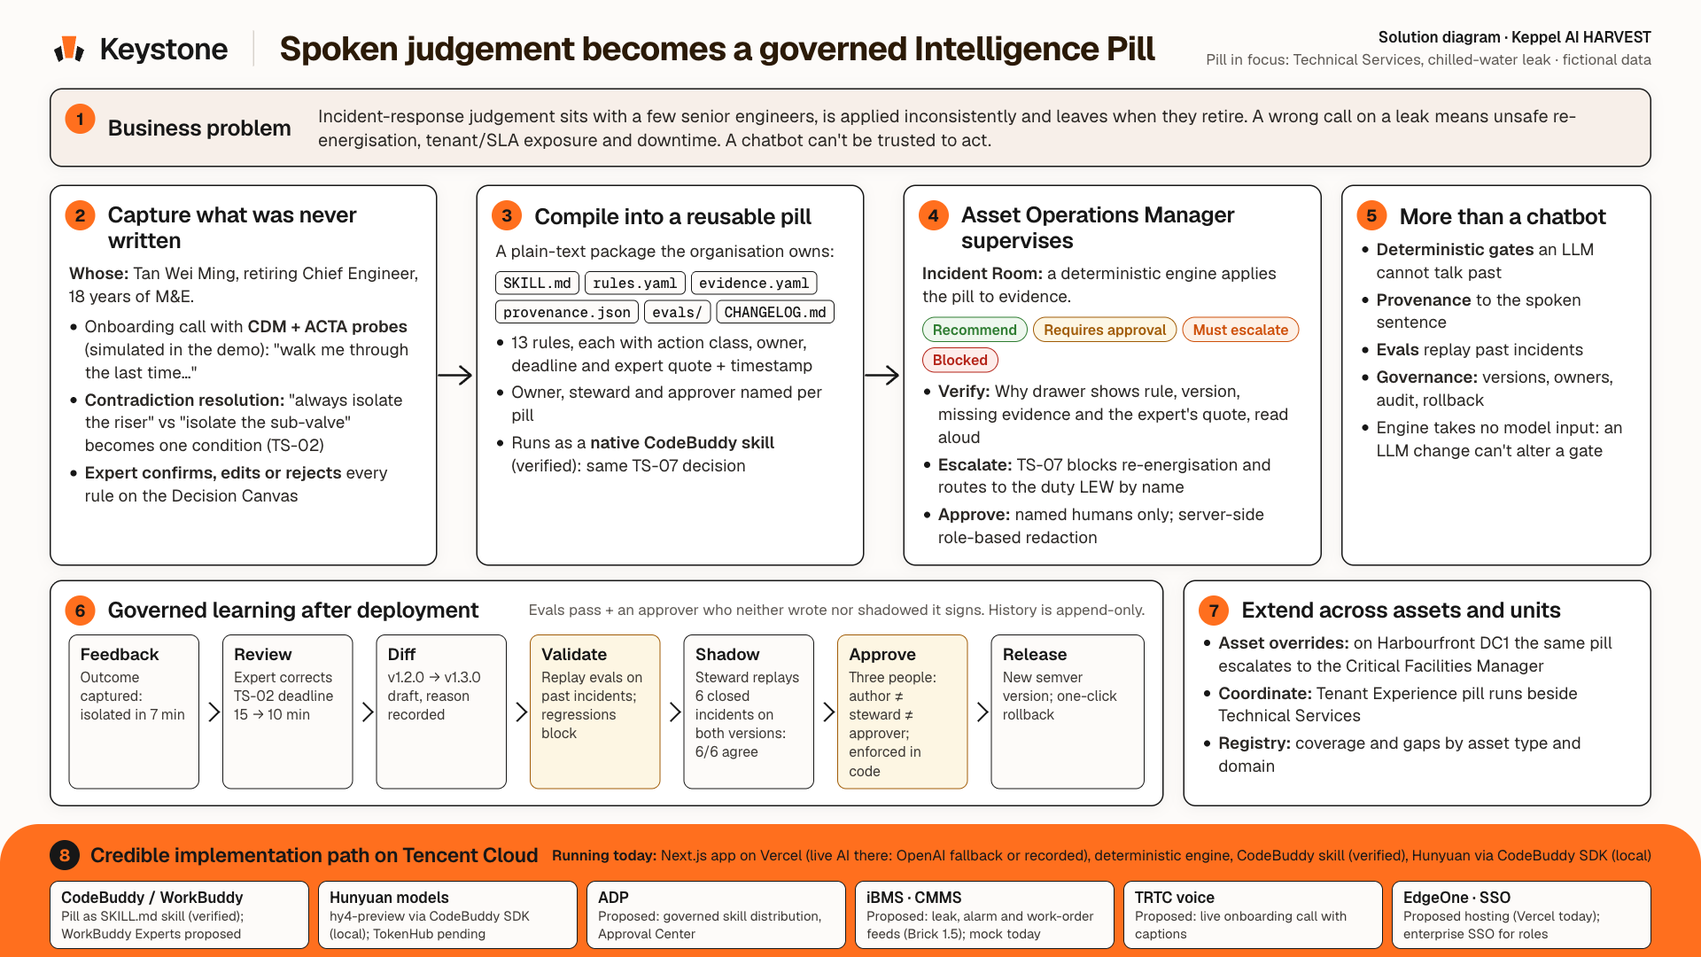
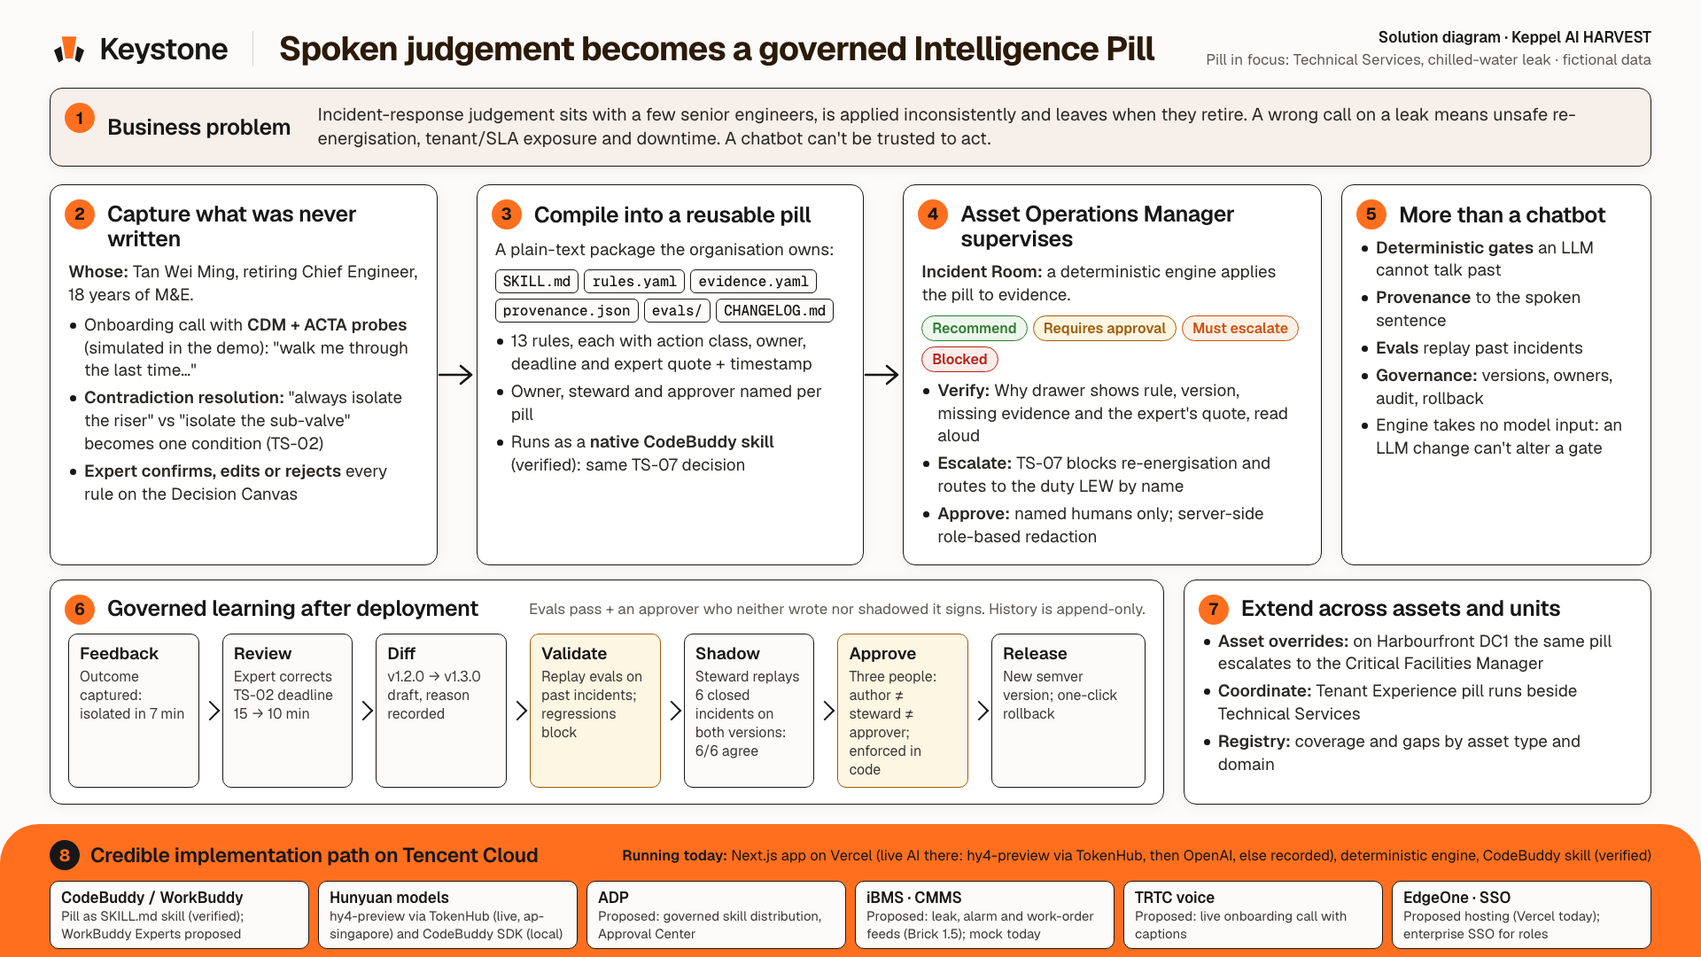
docs(submission): correct every stale number against the current tree
The submission documents were quoting a 12 Oct tree. A judge who runs the
commands we cite would have seen different numbers than the ones we print,
which costs more than the claims are worth.

Measured today and corrected:

- Test counts. README, the video script (4 places) and form-answers all said
  "712 tests in 46 files" and narrated "over 700 tests". The suite is now 876
  tests in 76 files. The narration becomes "over 850 tests".
- One test only runs after a build: the client-bundle secret scan greps
  .next/static, so a clean tree reports 875 passed and 1 skipped. Both states
  were observed, and the docs now say which command produces which, so the
  terminal on camera matches the narration.
- One test is genuinely flaky: lib/engine/__tests__/stress.test.ts
  "evaluate() is linear in rules" compares wall-clock timings against
  half.ms * 3.5 and fails on a loaded machine in roughly one run in ten
  (observed 42.56 ms against a 40.67 ms bound). Not our file to fix, so the
  video script and form-answers warn the recorder instead of pretending the
  suite is deterministic.
- solution-diagram said "TokenHub pending". TokenHub is live and answers first
  on the deployment, as README, SUBMISSION and lib/connectors already state.
  Source corrected and the PNG regenerated from it at the same 1920x1080, with
  the "Running today" note shortened so section 8 still fits one line; the
  Hunyuan-via-CodeBuddy-SDK (local) fact it dropped is stated in full by the
[…]

diff --git a/docs/submission/solution-diagram.html b/docs/submission/solution-diagram.html
@@ -193,11 +193,11 @@
     <div class="impl-head">
       <span class="badge">8</span>
       <h2>Credible implementation path on Tencent Cloud</h2>
-      <span class="note"><span style="font-weight:600">Running today:</span> Next.js app on Vercel (live AI there: OpenAI fallback or recorded), deterministic engine, CodeBuddy skill (verified), Hunyuan via CodeBuddy SDK (local)</span>
+      <span class="note"><span style="font-weight:600">Running today:</span> Next.js app on Vercel (live AI there: hy4-preview via TokenHub, then OpenAI, else recorded), deterministic engine, CodeBuddy skill (verified)</span>
     </div>
     <div class="layers">
       <div class="layer"><b>CodeBuddy / WorkBuddy</b><span>Pill as SKILL.md skill (verified); WorkBuddy Experts proposed</span></div>
-      <div class="layer"><b>Hunyuan models</b><span>hy4-preview via CodeBuddy SDK (local); TokenHub pending</span></div>
+      <div class="layer"><b>Hunyuan models</b><span>hy4-preview via TokenHub (live, ap-singapore) and CodeBuddy SDK (local)</span></div>
       <div class="layer"><b>ADP</b><span>Proposed: governed skill distribution, Approval Center</span></div>
       <div class="layer"><b>iBMS · CMMS</b><span>Proposed: leak, alarm and work-order feeds (Brick 1.5); mock today</span></div>
       <div class="layer"><b>TRTC voice</b><span>Proposed: live onboarding call with captions</span></div>

diff --git a/docs/submission/video-script.md b/docs/submission/video-script.md
@@ -11,7 +11,7 @@
 - Use a fresh browser profile, or clear the site's localStorage, so the governance store starts at v1.2.0 with nothing approved.
 - Browser at 1440 x 900, zoom 110 %, cursor highlight on, notifications off.
 - Have CodeBuddy Code open in a terminal in the repo, with `.codebuddy/skills/chilled-water-leak/` present, for the reflection section. The screenshots `docs/proof/04a-codebuddy-skill-invoked.png` and `04b-codebuddy-skill-ts07-answer.png` are the fallback if a live run is not possible.
-- Have `npx vitest run` ready in a second terminal. Last verified run (12 Oct 2026): **46 test files, 712 tests, all passing.** Re-run before recording; the narration says "over 700 tests".
+- Have `npx vitest run` ready in a second terminal. Last verified run (13 Oct 2026): **76 test files, 876 tests, all passing.** Re-run before recording; the narration says "over 850 tests". Run `npx next build` first: one test scans the build output for a leaked key, so without a build the terminal reads "875 passed | 1 skipped" instead of "876 passed". One timing-sensitive test (`lib/engine/__tests__/stress.test.ts`, "evaluate() is linear in rules") compares wall-clock timings and fails on a loaded machine in roughly one run in ten; close other apps, and re-run if it trips while recording.
 - Live AI on the Vercel deployment is Hunyuan hy4-preview via TokenHub, served from a dedicated Singapore endpoint, or recorded output, and the badge says which (OpenAI gpt-5.4-mini is a fallback).
 - Frontline capture segment: use the labelled **demo note** (or type a note) on `/c/AHU-23-01`. Do not present hold-to-talk as working on Singapore-accented speech; real microphone speech is untested. Do **not** propose the captured draft in the recording profile: proposing it creates v1.3.0, which would change the version numbers in the Learning segment. The peer-gate shots use `docs/capture/screens/c7-approvals-peer-gate-blocks-shadow.png` and `c8-hafiz-peer-confirmed.png`. Sign in once more if you have an older session (tokens now carry a `jti`). This script does not show a live AI call. If you record one locally with CodeBuddy credentials, the badge will read Hunyuan hy4-preview via CodeBuddy; narrate whatever the badge shows.
 
@@ -112,10 +112,10 @@
 
 ### 5:45 to 6:10 · Responsible AI, briefly
 
-**On screen:** Split screen. On the left, the terminal runs `npx vitest run` and ends on the "Test Files … passed · Tests … passed" summary (last run: 46 files, 712 tests). On the right, use **Switch user** to choose **Rajesh Kumar · Technician** and show that the incident's tenant name is masked.
+**On screen:** Split screen. On the left, the terminal runs `npx vitest run` and ends on the "Test Files … passed · Tests … passed" summary (last run: 76 files, 876 passed). On the right, use **Switch user** to choose **Rajesh Kumar · Technician** and show that the incident's tenant name is masked.
 
 **Narration:**
-> Here's the responsible-AI part in one breath. Gates are deterministic and evidence counts only when it's confirmed true. Redaction happens on the server, so a technician's browser never receives the tenant's name. Every decision is audited. And it's all tested: over 700 tests, including adversarial and property-based tests on the gates and the governance rules. The language model handles language. It never decides on a safety action.
+> Here's the responsible-AI part in one breath. Gates are deterministic and evidence counts only when it's confirmed true. Redaction happens on the server, so a technician's browser never receives the tenant's name. Every decision is audited. And it's all tested: over 850 tests, including adversarial and property-based tests on the gates and the governance rules. The language model handles language. It never decides on a safety action.
 
 ### 6:10 to 7:10 · Reflection: how we built it with CodeBuddy
 
@@ -160,7 +160,7 @@
 | 16 | 5:05 | Learning step 4: eval replay | same | v1.2.0 passes 5/6; the correction fixes the failing case. |
 | 17 | 5:20 | Learning steps 5 and 6: hand-off to Priya, shadow 6/6, Priya refused approval, switch to Goh Boon Kheng, approve | same | Three different people: author, steward, approver. Hold on the "Separation of duties" refusal. |
 | 18 | 5:35 | Learning step 7: Goh rolls back with a reason (v1.4.0), history and audit kept | same | |
-| 19 | 5:45 | Split: vitest (700+ passing), and the Technician view with masking | terminal + app | |
+| 19 | 5:45 | Split: vitest (876 passing), and the Technician view with masking | terminal + app | |
 | 20 | 6:10 | CodeBuddy proof screenshots 01a, 01b, 01c, 02c, 03a | `docs/proof/` | Ken Burns pan, about 4 s each. |
 | 21 | 6:35 | CodeBuddy skill run: same TS-07 decision | live CodeBuddy, or `docs/proof/04a`, `04b` | |
 | 22 | 7:10 | Landing hero, then the cover card with the URL | `/`, `docs/submission/cover.png` | End card for 3 s. |
@@ -186,7 +186,7 @@ Use this if the full video can't be recorded, or as a teaser. It reuses shots 1,
 
 | Claim | Source in the repo |
 |---|---|
-| Over 700 tests (last run: 46 files, 712 tests, all passing) | `npx vitest run`, run 12 Oct 2026 |
+| Over 850 tests (last run: 76 files, 876 passed) | `npx vitest run` after `npx next build`, run 13 Oct 2026 |
 | A gate block asks the technician "why, in twenty seconds" | `components/incident/captureTasks.ts`, `components/incident/IncidentRoom.tsx` ("Tell us why — 20 seconds") |
 | QR page for AHU-23-01; consent notice before recording; demo note labelled | `app/c/[assetId]/page.tsx`, `components/capture/ConsentNotice.tsx`, `data/fixtures/capture/qr-ahu-23-01.json` |
 | Every number, tag and role is checked (read-back) | `lib/capture/contract.ts` (`READ_BACK_KINDS`, `draftProposalReadiness`) |

diff --git a/docs/SUBMISSION.md b/docs/SUBMISSION.md
@@ -61,10 +61,11 @@ Two primary users, per the challenge's own roles. Everyone else is a name in the
    promotes a corrected pill version into Shadow and replays it, and escalates. She
    cannot approve a version she shadowed; the Head of Technical Services does.
 
-Supporting roles (implemented in `data/roles.json`, 14 in total): Head of Technical
+Supporting roles (implemented in `data/roles.json`, 15 in total): Head of Technical
 Services (approver of record), Duty Licensed Electrical Worker (electrical-safety
 sign-off), Fire Safety Manager, Tenant Experience Manager, Duty Facilities Manager,
-DC Critical Facilities Manager, Technician, Executive, and others.
+DC Critical Facilities Manager, Technician, Senior Technician, Technical Services
+Lead, Property Manager, Account Manager, Security / FCC Operator, and Executive.
 
 ### Value proposition
 
@@ -183,10 +184,13 @@ Next.js 15 (App Router, TS) · React 19 · Tailwind v4
 └─ data/                  mock assets, incidents, timelines, transcripts, roles, fixtures
 ```
 
-Eleven pages ship: `/` (landing), `/sign-in`, `/pulse` (Portfolio Pulse), `/capture`,
-`/canvas/[pillId]`, `/registry`, `/incident/[id]`, `/approvals`, `/learning/[pillId]`,
-`/c/[assetId]` (QR tap-to-teach) and `/c/[assetId]/qr` (printable label), plus API
-routes for auth, LLM, Jev and capture transcription. Full Mermaid diagrams in `docs/ARCHITECTURE.md`.
+Sixteen pages ship (`npx next build`, 13 Oct 2026): `/` (landing), `/sign-in`,
+`/pulse` (Portfolio Pulse), `/capture`, `/canvas/[pillId]`, `/registry`,
+`/registry/[pillId]`, `/incidents`, `/incident/[id]`, `/incident/[id]/record`
+(printable decision record), `/approvals`, `/learning/[pillId]`, `/connectors`,
+`/c` (equipment index), `/c/[assetId]` (QR tap-to-teach) and `/c/[assetId]/qr`
+(printable label), plus seven API routes for auth, LLM, Jev and capture
+transcription. Full Mermaid diagrams in `docs/ARCHITECTURE.md`.
 
 ### 5.3 How prompts drive AI generation
 
@@ -564,7 +568,7 @@ TokenHub in ap-singapore, with OpenAI gpt-5.4-mini as a fallback. Rows marked
 | **Speech recognition (adapter only)** | **Tencent Cloud ASR**, `asr.ap-singapore.tencentcloudapi.com` | The only option found with documented Singapore-region processing. The adapter in `lib/capture/asr.ts` reports "not configured": no credentials, not verified against the live API. Today hold-to-talk uses the browser's Web Speech API (audio processed by the browser vendor). Singapore-accented speech is untested. |
 | **Builder skills (verified)** | **CodeBuddy** — `.codebuddy/skills/<name>/SKILL.md` | The same pill loads as a CodeBuddy skill (`docs/proof/04a`, `04b`); `rules.yaml` and `evals/` are executed only by the Keystone engine. |
 | **Expert host (proposed)** | **WorkBuddy** — Skills & Expert Center, Experts, Expert Teams | A pill would become a Skill; a domain pill + persona an Expert; the Asset Ops orchestrator an Expert Team leader. WorkBuddy documents a security scan before install; `access` could map to its RBAC. |
-| **Enterprise governance (proposed)** | **ADP** (Agent Development Platform) — custom skills as a ZIP with `SKILL.md` at the root, YAML metadata, semantic versioning, sandbox security review, **Approval Center** for enterprise sharing | The governed distribution path for pills across business units. |
+| **Enterprise governance (proposed)** | **ADP** (Agent Development Platform) — custom skills imported as a ZIP. Its documentation (fetched 2026-10-13: [1254/81539](https://www.tencentcloud.com/document/product/1254/81539), [1254/81540](https://www.tencentcloud.com/document/product/1254/81540)) requires `SKILL.md` *"included in the root directory of the ZIP package"*; *"Only .zip format is supported"*; *"Maximum 10 MB"*; metadata *"in YAML format, including at least the Skill name and feature description fields"*; and a Version Number, *"Recommended semantic versioning"*. It also documents sandbox security review and an **Approval Center** for enterprise sharing. | The governed distribution path for pills across business units. `lib/export/__tests__/adp-package.test.ts` enforces every one of those documented constraints against the package Keystone exports for each pill, so exporter or pill drift fails the test suite instead of the import. No pill has been imported into ADP. |
 | **Sandbox (proposed)** | **Agent Runtime / CubeSandbox** | Isolated execution for deterministic rule checks (architecture reference; not built). |
 | **Voice (proposed)** | **TRTC Conversational AI** (STT + LLMConfig OpenAI-compatible + TTS; captions via custom messages) | The live Expert Onboarding Call: real-time captions and "rule extracted" chips. Today the demo uses a scripted transcript read by browser text-to-speech; TRTC is the proposed production path. |
 | **Hosting (proposed)** | **EdgeOne Pages** (Next.js SSR, free HTTPS) with **Lighthouse** (Singapore) for a persistent backend | Today the app runs on Vercel. Lighthouse if a long-lived Node backend (TRTC token service) is needed. |

diff --git a/docs/submission/form-answers.md b/docs/submission/form-answers.md
@@ -10,7 +10,7 @@ The code blocks below contain only claims backed by this repository or by a cite
 - [ ] **[verify]** About 40% of Singapore's Built Environment PMETs are aged 50+ (MND, 2022). If confirmed, you may add: `• About 40% of Singapore's Built Environment PMETs are aged 50+ (MND, 2022).`
 - [ ] **[verify]** No pilot cost has been estimated, so the answers do not claim that one avoided flood "pays for the pilot". Add that only with a cost estimate.
 - [ ] **[verify]** The GitHub repository is private. Grant the judges access, or make it public.
-- [ ] **[verify]** Re-run `npx vitest run` just before submitting. The answers say "700+ automated tests"; the last run (12 Oct 2026) was 46 files, 712 tests, all passing.
+- [ ] **[verify]** Re-run `npx vitest run` just before submitting. The answers say "850+ automated tests"; the last run (13 Oct 2026) was 76 files, 876 tests, all passing. Build first (`npx next build`), or the client-bundle scan is skipped and the run reads 875 passed, 1 skipped. One timing-sensitive engine stress test fails on a loaded machine in roughly one run in ten; re-run on a quiet machine before quoting a number.
 - [ ] **[verify]** Sign in on the live URL and check that the live drafting badge reads `Live · hy4-preview via TokenHub` (or `Recorded output`), as described below.
 - [ ] **[verify]** Walk the frontline capture path on the live URL from a fresh browser profile: Rajesh is blocked by TS-07 at step 10 → note → read-back → draft → Tan Wei Ming proposes TS-14 in v1.3.0 → Priya is refused at Promote to Shadow → Muhammad Hafiz confirms → Priya promotes.
 - [ ] **[do not claim]** Speech recognition on real Singapore-accented speech is untested. The Tencent Cloud ASR adapter reports "not configured", and the OpenAI transcription path has never been run live. Do not claim accuracy, and do not claim that speech is processed in Singapore: the browser's speech service decides where audio goes.
@@ -52,7 +52,7 @@ Users
 • The domain expert and pill owner: Tan Wei Ming, Chief Engineer, 18 years of M&E experience, retiring. He confirms, edits or rejects every extracted rule and corrects the rules later.
 • The Asset Operations Manager and pill steward: Priya Nair. She supervises AI recommendations in the Incident Room, approves actions that need approval, escalates, and promotes new versions into shadow mode. She cannot approve a version she shadowed.
 • Frontline staff: Rajesh Kumar (Technician) records what the gate didn't know; Muhammad Hafiz (Technical Services Lead) confirms it as a peer.
-• Supporting roles (14 personas in data/roles.json): Head of Technical Services (approver of record), duty Licensed Electrical Worker, DC Critical Facilities Manager, Tenant Experience Manager, Technician, Executive and others.
+• Supporting roles (15 personas in data/roles.json): Head of Technical Services (approver of record), duty Licensed Electrical Worker, DC Critical Facilities Manager, Tenant Experience Manager, Technician, Executive and others.
 
 Value proposition
 Keystone compiles expert judgement into an Intelligence Pill: a plain-text, versioned, tested artefact with an owner and an approver. It outlives the expert, can be reused at every asset of the same type, has deterministic gates an LLM cannot talk past, proves itself against replayed past incidents before release, rolls back in one click, and stays the organisation's property rather than a vendor's.
@@ -110,7 +110,7 @@ The decision path is deterministic and takes no model input, so changing the mod
 Responsible AI
 Every rule has an action class. Evidence counts only when it is confirmed and exactly true. A blocked gate outranks escalate and requires-approval. Exceptions can add required evidence but never remove it. No AI proposal executes: each is held for a named human, and blocked outright when its gate's evidence is missing. The author of a version can't put it into Shadow or approve it, and whoever shadowed it can't approve it. Rollback never deletes history. Keystone never actuates building systems: it recommends, drafts and escalates.
 Frontline notes need consent before recording, a speaker-checked read-back, and a peer confirmation from someone who neither said nor proposed the rule.
-These invariants are executable: 700+ automated tests, including adversarial and property-based tests (fast-check) on the engine and the governance layer.
+These invariants are executable: 850+ automated tests, including adversarial and property-based tests (fast-check) on the engine and the governance layer.
 The design is mapped (design alignment, not certification) to the IMDA Model AI Governance Framework (2020 and the 2026 Agentic AI edition), AI Verify, ISO/IEC 42001 and the NIST AI RMF. The mapping is in docs/SUBMISSION.md §9.
 
 Path to production on Tencent Cloud

diff --git a/README.md b/README.md
@@ -200,9 +200,18 @@ The pill folder is a standard `SKILL.md` skill package. **Verified in CodeBuddy 
 - **WorkBuddy** *(designed for, untested)* — would import via **Skills & Expert Center**, where `SKILL.md`
   would become a skill. WorkBuddy documents a security scan before installation; the
   pill's `access` frontmatter could map to WorkBuddy's RBAC.
-- **Tencent Cloud ADP** *(designed for, untested)* — would be packaged as a ZIP with `SKILL.md` at the root.
-  ADP documents YAML metadata, semantic versioning, sandbox security review, and
+- **Tencent Cloud ADP** *(designed for, untested)* — would be packaged as a ZIP with
+  `SKILL.md` at the root. ADP's own documentation (fetched 13 Oct 2026:
+  [1254/81539](https://www.tencentcloud.com/document/product/1254/81539),
+  [1254/81540](https://www.tencentcloud.com/document/product/1254/81540)) requires
+  `SKILL.md` "included in the root directory of the ZIP package"; "Only .zip format
+  is supported"; "Maximum 10 MB"; metadata "in YAML format, including at least the
+  Skill name and feature description fields"; and a Version Number, with
+  "Recommended semantic versioning". It also documents sandbox security review and
   enterprise sharing through the Approval Center.
+  `lib/export/__tests__/adp-package.test.ts` enforces each of those constraints
+  against the package Keystone exports, so a drift in the exporter or a pill fails
+  the test suite rather than the import. No pill has been imported into ADP.
 - **Any SKILL.md-compatible host** — the structure follows the Anthropic agentskills
   convention (the same shape is used by Claude Code, CodeBuddy and Cursor).
 
@@ -327,7 +336,7 @@ Session tokens carry a `jti`, so sessions issued before 12 Oct need one re-sign-
 
 ## Tests
 
-`npm test` runs the regression suite (712 tests in 46 files, 12 Oct 2026) across the deterministic core, LLM boundary, governance layer and frontline capture,
+`npm test` runs the regression suite (876 tests in 76 files, 13 Oct 2026) across the deterministic core, LLM boundary, governance layer and frontline capture,
 including the safety invariants that make the demo defensible:
 
 - **Evidence can never be faked open** — a required item counts only when it is
@@ -353,12 +362,17 @@ including the safety invariants that make the demo defensible:
   until every chip is confirmed.
 
 Coverage spans `lib/engine` (conditions, evaluate, counterfactual, evals, schema,
-real-pill conformance), `lib/governance` (versions, approval, access, audit, store,
-capture store actions), `lib/capture` (contract, read-back, peer gate, ASR chain),
-`lib/data` (schema + cross-file consistency), `lib/pills` (package loading), and
-`lib/llm` (mocked SDK/provider selection, no-spawn fallback, timeout, malformed JSON,
-injected controls, bounded HTTP inputs, and TE-02/TE-03 rejection). Tests make no
-inference requests.
+real-pill conformance, the no-model-input boundary), `lib/governance` (versions,
+approval, access, audit, store, capture store actions), `lib/capture` (contract,
+read-back, peer gate, ASR chain), `lib/data` (schema + cross-file consistency),
+`lib/pills` (package loading), `lib/export` (skill package, audit export, and the
+ADP import constraints), `lib/auth`, `lib/ratelimit`, `lib/connectors`, `lib/guide`,
+`lib/journey`, `lib/record`, `lib/jev`, and `lib/llm` (mocked SDK/provider selection,
+no-spawn fallback, timeout, malformed JSON, injected controls, bounded HTTP inputs,
+and TE-02/TE-03 rejection). Tests make no inference requests. One test — the
+client-bundle scan in `lib/jev/__tests__/jev.test.ts`, which greps `.next/static`
+for a leaked Jev key — only runs when a build output exists, so a run on a clean
+tree reports 875 passed and 1 skipped. Run `npx next build` first for 876 passed.
 
 ---
 

diff --git a/docs/review/claims-audit.md b/docs/review/claims-audit.md
@@ -1,5 +1,22 @@
 # Keystone public-claims accuracy audit
 
+> **Stale as of 13 Oct 2026.** This audit is a record of what was true on 12 Oct,
+> not a current checklist. Most of the claims it flagged were fixed, and the repo
+> has moved since. Re-measured on 13 Oct 2026, three of its "Facts measured"
+> entries no longer hold:
+>
+> - `npx vitest run` is now **76 test files, 876 tests** (875 passed and 1 skipped
+>   without a prior `npx next build`), not 33 files / 515 tests.
+> - The provider chain timeouts and budget have changed (now CodeBuddy 15 s,
+>   TokenHub 22 s, OpenAI 15 s, under a 35 s budget; see `README.md`).
+> - **TokenHub now has a Production key and answers first on the deployed site**,
+>   on a dedicated ap-singapore endpoint. The line below saying "Hunyuan never
+>   answers there" was true on 12 Oct and is false now; every FALSE/OVERSTATED row
+>   below that rests on "Vercel has no TOKENHUB_API_KEY" is superseded.
+>
+> The remaining rows have not been re-adjudicated. Treat a verdict here as needing
+> a fresh check against the current tree before acting on it.
+
 Audit date: 12 Oct 2026. This was a read-only audit: no source file was edited. The method was the Santa method. Two reviewers, B and C, worked separately with the same 9-point rubric and no shared context. C read the sources in reverse order. Their results were then merged. Where they disagreed, the stricter verdict was kept unless a direct check settled it (see the Disagreements section).
 
 ## Facts measured during the audit
